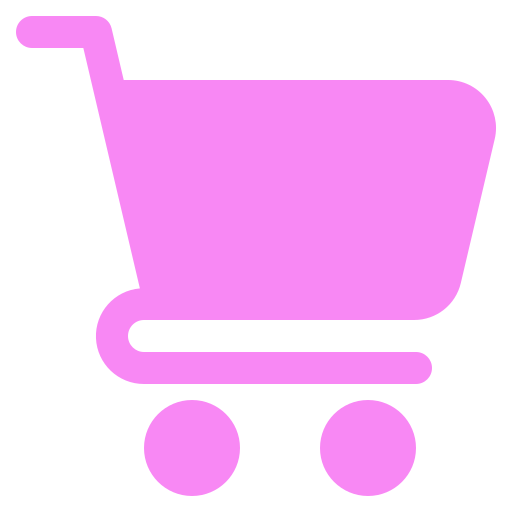
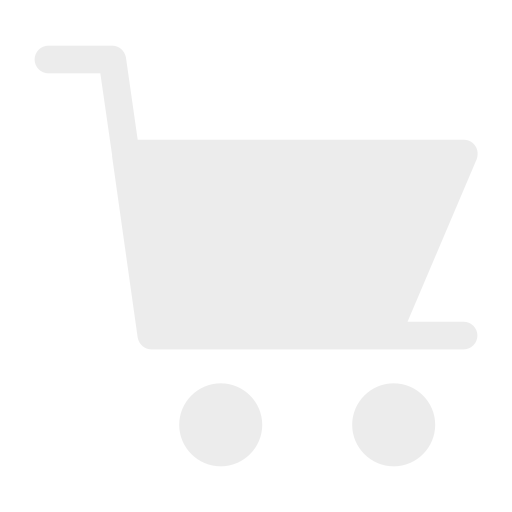
---

diff --git a/css/App.css b/css/App.css
@@ -1,32 +1,27 @@
-body {
-  background-color: rgba(129, 6, 111, 0.347);
-
-}
-
-
 .container {
+  margin-bottom: -150px;
+  margin-top: -415px;
   background-color: rgb(30, 10, 24);
-  margin-top: -420px;
-  width: 1456px;
+  width: 1441px;
   height: 100px;
   display: flex;
   align-items: center;
   justify-content: space-between;
   padding: 0 40px;
-  box-shadow: 0 3px 0 rgb(248, 136, 244);
+  z-index: 100;
 
 }
 
 .logo {
   font-family: 'Gill Sans', 'Gill Sans MT', Calibri, 'Trebuchet MS', sans-serif;
-  color: rgb(255, 186, 254);
+  color: rgb(255, 255, 255);
   font-size: 40px;
   margin-left: -30px;
 
 }
 
 .carrito {
-  width: 40px;
+  width: 45px;
 }
 
 .mensaje {
@@ -34,7 +29,7 @@ body {
   font-family: 'Courier New', Courier, monospace;
   text-align: center;
   font-weight: 510;
-  color: rgb(255, 186, 254);
+  color: rgb(255, 255, 255);
   margin-top: -90px;
   margin-left: 990px;
 
@@ -42,9 +37,23 @@ body {
 
 .links {
   text-decoration: none;
-  color: rgb(255, 186, 254);
+  color: rgb(255, 255, 255);
   margin-left: -300px;
   font-size: 25px;
   font-family: 'Courier New', Courier, monospace;
   text-align: center;
+}
+
+.video {
+  width: 1382px;
+  height: 910px;
+  z-index: -1;
+  pad: 0 40px;
+  z-index: -100;
+  margin-top: 0;
+  transition-duration: 1000ms;
+  pointer-events: visibleFill;
+  position: absolute;
+  transform: scale(1.2);
+
 }

diff --git a/src/Components/Iframe.jsx b/src/Components/Iframe.jsx
@@ -1,0 +1,22 @@
+
+import '../../css/App.css'
+export const Iframe = () => {
+    return (
+        <div>
+            <iframe
+                class="video"
+
+                frameborder="0"
+                allowfullscreen
+                allow="accelerometer; autoplay; clipboard-write; encrypted-media; gyroscope; picture-in-picture; web-share"
+                referrerpolicy="strict-origin-when-cross-origin"
+                width="1622"
+                height="912"
+                src=" https://www.youtube-nocookie.com/embed/lrf-GAYUOkQ?autoplay=1&mute=1&controls=0&enablejsapi=1&iv_load_policy=3&modestbranding=1&rel=0&playsinline=1&loop=1&playlist=lrf-GAYUOkQ&disablekb=1&html5=1&showinfo=0">
+            </iframe>
+
+
+        </div >
+
+    )
+}

diff --git a/src/App.jsx b/src/App.jsx
@@ -1,14 +1,16 @@
+import { Iframe } from "./Components/Iframe";
 import ItemListContainer from "./Components/ItemListContainer";
 import Navbar from "./Components/Navbar"
 
 
 function App() {
-  const nombre = prompt("Hola, Como te llamas?");
-  const mensaje = "Bienevindx " + nombre;
+  /*   const nombre = prompt("Hola, Como te llamas?");
+    const mensaje = "Bienevindx " + nombre; */
   return (
     <>
       <Navbar />
-      <ItemListContainer mensaje={mensaje} />
+      {/* <ItemListContainer mensaje={mensaje} /> */}
+      <Iframe />
     </>
   )
 }
